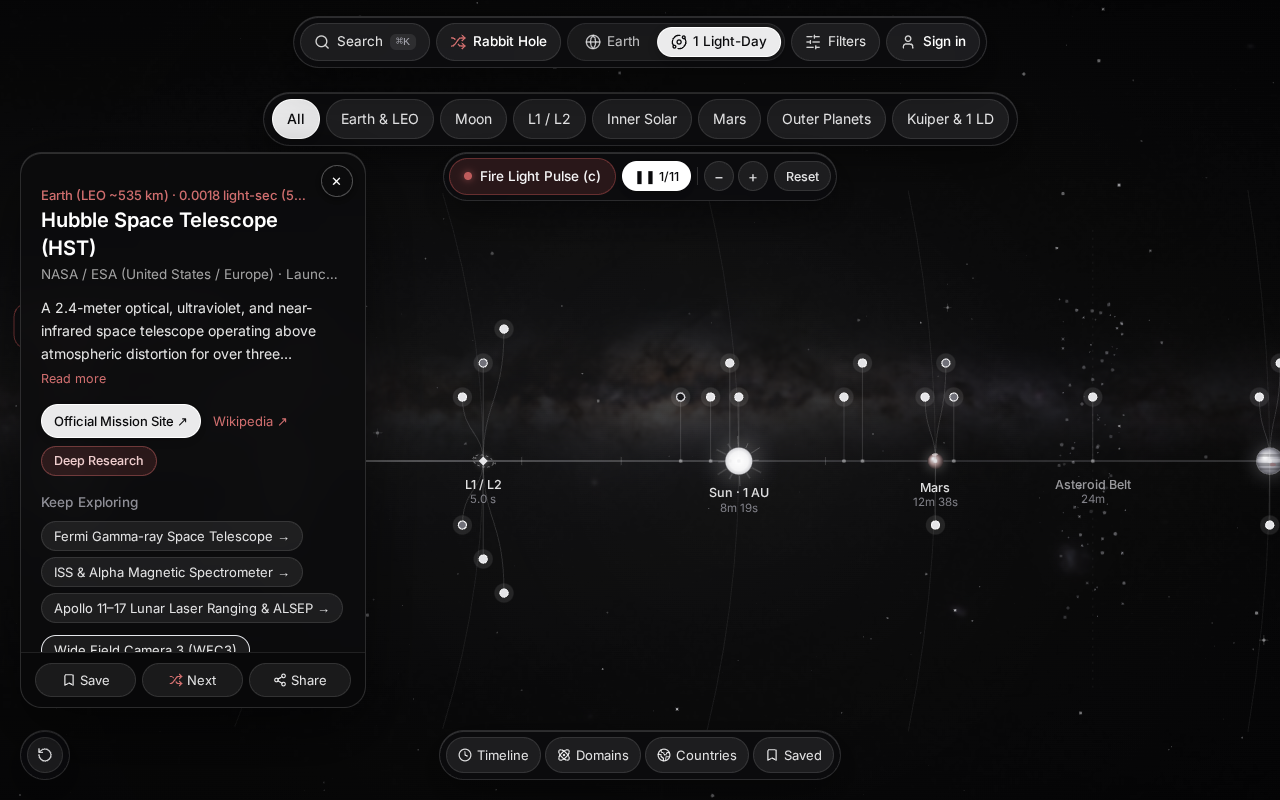
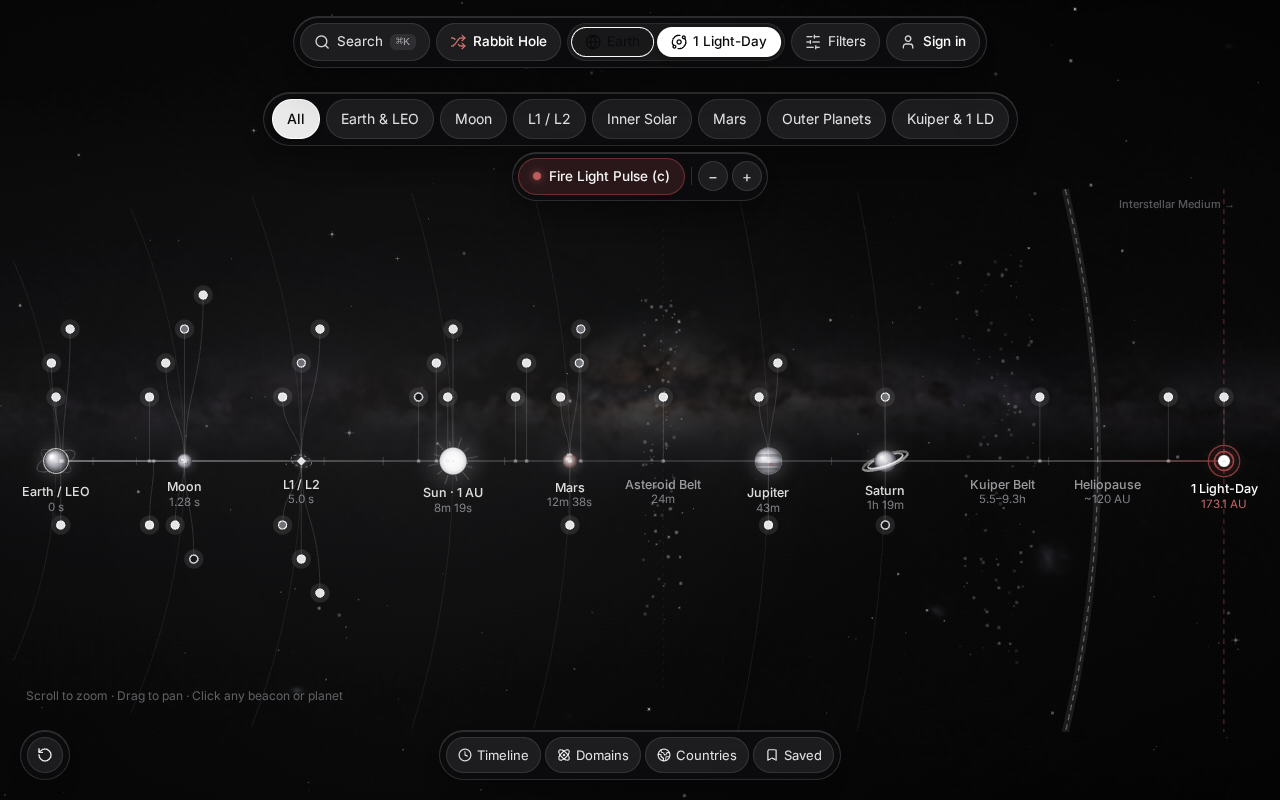
Remove UTC sun mode, polish Compare MIT preset & final v2.2.0 sweep (sw v36)

diff --git a/public/js/globe_engine.js b/public/js/globe_engine.js
@@ -789,67 +789,25 @@ function initGlobeHudOverlay() {
 
     const center = map.getCenter();
     const rad = Math.PI / 180;
-    const bearingDeg = typeof map.getBearing === "function" ? map.getBearing() : 0;
 
-    // True 3D spherical solar day/night terminator (3-state: Orbital 45° · Live UTC Astronomical · Off)
+    // True 3D spherical orbital solar day/night terminator (toggleable via Sun button)
     // Strictly alpha = 0 across the entire sunlit hemisphere so Earth stays 100% vivid & crisp (zero grey wash!)
-    const sunMode = store.state.sunMode || (store.state.sunLighting ? "orbital" : "off");
-    if (sunMode !== "off" && zoom < 4.7 && pitch < 32 && hasSurfaceRay) {
+    if (store.state.sunLighting && zoom < 4.7 && pitch < 32 && hasSurfaceRay) {
       const sunFade = Math.max(0, Math.min(1, 1 - (zoom - 3.15) / 1.55));
       if (sunFade > 0.01) {
-        let sx, sy, sz;
-        if (sunMode === "utc") {
-          const now = new Date();
-          const startOfYear = Date.UTC(now.getUTCFullYear(), 0, 0);
-          const doy = (Date.UTC(now.getUTCFullYear(), now.getUTCMonth(), now.getUTCDate()) - startOfYear) / 86400000;
-          const utcHours = now.getUTCHours() + now.getUTCMinutes() / 60 + now.getUTCSeconds() / 3600;
-          const sunLatRad = (-23.44 * Math.cos(((2 * Math.PI) / 365) * (doy + 10))) * rad;
-          let sunLngDeg = (12 - utcHours) * 15;
-          sunLngDeg = ((sunLngDeg + 540) % 360) - 180;
-          const sunLngRad = sunLngDeg * rad;
+        // Orbital 45° showcase angle: vivid untouched sunlit hemisphere + crisp curved night limb
+        const slx = -0.64, sly = 0.28, slz = 0.71;
+        const slen = Math.hypot(slx, sly, slz);
+        const sx = slx / slen, sy = sly / slen, sz = slz / slen;
 
-          // ECEF sun unit vector (+Z = 0°E,0°N; +X = 90°E,0°N; +Y = North Pole)
-          const vx = Math.cos(sunLatRad) * Math.sin(sunLngRad);
-          const vy = Math.sin(sunLatRad);
-          const vz = Math.cos(sunLatRad) * Math.cos(sunLngRad);
-
-          // Transform into camera frame (center.lng, center.lat, bearing)
-          const cLng = center.lng * rad;
-          const cLat = center.lat * rad;
-          const bRad = bearingDeg * rad;
-          const x1 = vx * Math.cos(cLng) - vz * Math.sin(cLng);
-          const y1 = vy;
-          const z1 = vx * Math.sin(cLng) + vz * Math.cos(cLng);
-          const x2 = x1;
-          const y2 = y1 * Math.cos(cLat) - z1 * Math.sin(cLat);
-          const z2 = y1 * Math.sin(cLat) + z1 * Math.cos(cLat);
-          sx = x2 * Math.cos(bRad) - y2 * Math.sin(bRad);
-          sy = x2 * Math.sin(bRad) + y2 * Math.cos(bRad);
-          sz = z2;
-        } else {
-          // Orbital 45° showcase angle: vivid untouched sunlit hemisphere + crisp curved night limb
-          const slx = -0.64, sly = 0.28, slz = 0.71;
-          const slen = Math.hypot(slx, sly, slz);
-          sx = slx / slen; sy = sly / slen; sz = slz / slen;
-        }
-
-        const prevSun = renderHudNow._lastSunVec;
-        const sunMoved = !prevSun
-          || Math.abs(prevSun.sx - sx) > 0.014
-          || Math.abs(prevSun.sy - sy) > 0.014
-          || Math.abs(prevSun.sz - sz) > 0.014;
-
-        if (!renderHudNow._sunMask || sunMoved) {
-          const S = 160;
-          const sc = renderHudNow._sunMask || document.createElement("canvas");
-          if (sc.width !== S || sc.height !== S) {
-            sc.width = S;
-            sc.height = S;
-          }
+        if (!renderHudNow._sunMask) {
+          const S = 180;
+          const sc = document.createElement("canvas");
+          sc.width = S;
+          sc.height = S;
           const sctx = sc.getContext("2d");
-          const img = renderHudNow._sunImg || sctx.createImageData(S, S);
+          const img = sctx.createImageData(S, S);
           const data = img.data;
-          data.fill(0);
           const half = S * 0.5;
           for (let py = 0; py < S; py++) {
             const v = (py + 0.5 - half) / half; // +down
@@ -877,8 +835,6 @@ function initGlobeHudOverlay() {
           }
           sctx.putImageData(img, 0, 0);
           renderHudNow._sunMask = sc;
-          renderHudNow._sunImg = img;
-          renderHudNow._lastSunVec = { sx, sy, sz };
         }
 
         const cx0 = w * 0.5;

diff --git a/public/js/ui_controller.js b/public/js/ui_controller.js
@@ -3359,16 +3359,11 @@ export function initUI() {
   document.getElementById("btn-mode-space")?.addEventListener("click", () => setViewMode("space"));
 
   const syncGlobeLayerButtons = () => {
-    const sunMode = store.state.sunMode || (store.state.sunLighting ? "orbital" : "off");
-    const sunActive = sunMode !== "off";
-    const sunLabel = sunMode === "utc" ? "UTC" : "Sun";
-    const sunMobLabel = sunMode === "utc" ? "UTC" : "Sun";
-
     const pairs = [
       ["btn-arcs", "btn-layer-arcs", Boolean(store.state.arcs)],
       ["btn-labels", "btn-layer-labels", Boolean(store.state.labels)],
       ["btn-tilt", "btn-layer-tilt", Boolean(store.state.tilted)],
-      ["btn-sun", "btn-layer-sun", sunActive]
+      ["btn-sun", "btn-layer-sun", Boolean(store.state.sunLighting)]
     ];
     for (const [deskId, mobId, isOn] of pairs) {
       for (const id of [deskId, mobId]) {
@@ -3378,10 +3373,6 @@ export function initUI() {
         el.classList.toggle("glass-btn", !isOn);
       }
     }
-    const deskSun = document.getElementById("btn-sun");
-    if (deskSun) deskSun.textContent = sunLabel;
-    const mobSun = document.getElementById("btn-layer-sun");
-    if (mobSun) mobSun.textContent = sunMobLabel;
   };
 
   const toggleArcsLayer = () => {
@@ -3399,23 +3390,10 @@ export function initUI() {
     syncGlobeLayerButtons();
     setGlobeTilt(store.state.tilted);
   };
-  const cycleSunMode = () => {
-    const cur = store.state.sunMode || (store.state.sunLighting ? "orbital" : "off");
-    const next = cur === "orbital" ? "utc" : cur === "utc" ? "off" : "orbital";
-    store.state.sunMode = next;
-    store.state.sunLighting = next !== "off";
+  const toggleSunLayer = () => {
+    store.state.sunLighting = !store.state.sunLighting;
     syncGlobeLayerButtons();
     syncGlobeMarkers();
-    if (next === "utc") {
-      const now = new Date();
-      const hh = String(now.getUTCHours()).padStart(2, "0");
-      const mm = String(now.getUTCMinutes()).padStart(2, "0");
-      showToast(`Live UTC Sunlight · ${hh}:${mm} UTC`);
-    } else if (next === "orbital") {
-      showToast("Orbital Sun (45° showcase)");
-    } else {
-      showToast("Solar lighting off");
-    }
   };
 
   document.getElementById("btn-arcs")?.addEventListener("click", toggleArcsLayer);
@@ -3424,8 +3402,8 @@ export function initUI() {
   document.getElementById("btn-layer-labels")?.addEventListener("click", toggleLabelsLayer);
   document.getElementById("btn-tilt")?.addEventListener("click", toggleTiltLayer);
   document.getElementById("btn-layer-tilt")?.addEventListener("click", toggleTiltLayer);
-  document.getElementById("btn-sun")?.addEventListener("click", cycleSunMode);
-  document.getElementById("btn-layer-sun")?.addEventListener("click", cycleSunMode);
+  document.getElementById("btn-sun")?.addEventListener("click", toggleSunLayer);
+  document.getElementById("btn-layer-sun")?.addEventListener("click", toggleSunLayer);
   syncGlobeLayerButtons();
 
   // Smooth native touch swipe-down-to-dismiss on mobile bottom sheets (#place-card & #cluster-sheet)

diff --git a/public/index.html b/public/index.html
@@ -197,7 +197,7 @@
         <button id="btn-layer-arcs" type="button" class="glass-btn-active rounded-full py-1.5 text-[12.5px] text-center">Arcs</button>
         <button id="btn-layer-labels" type="button" class="glass-btn rounded-full py-1.5 text-[12.5px] text-center">Labels</button>
         <button id="btn-layer-tilt" type="button" class="glass-btn rounded-full py-1.5 text-[12.5px] text-center">3D</button>
-        <button id="btn-layer-sun" type="button" class="glass-btn-active rounded-full py-1.5 text-[12.5px] text-center" title="Cycle Sunlight: Orbital · Live UTC · Off">Sun</button>
+        <button id="btn-layer-sun" type="button" class="glass-btn-active rounded-full py-1.5 text-[12.5px] text-center" title="Toggle orbital solar day/night lighting">Sun</button>
       </div>
     </div>
   </section>
@@ -429,7 +429,7 @@
     <button id="btn-arcs" type="button" class="glass-btn-active rounded-full px-3 py-1.5 text-[14px]">Arcs</button>
     <button id="btn-labels" type="button" class="glass-btn rounded-full px-3 py-1.5 text-[14px]">Labels</button>
     <button id="btn-tilt" type="button" class="glass-btn rounded-full px-3 py-1.5 text-[14px]">3D</button>
-    <button id="btn-sun" type="button" class="glass-btn-active rounded-full px-3 py-1.5 text-[14px]" title="Cycle Sunlight: Orbital 45° · Live UTC · Off">Sun</button>
+    <button id="btn-sun" type="button" class="glass-btn-active rounded-full px-3 py-1.5 text-[14px]" title="Toggle orbital solar day/night lighting">Sun</button>
   </div>
 
   <!-- Symmetrical Bottom Floating Dock (Desktop Two-Half Capsule / Mobile Sculpted Capsule Tab Bar) -->

diff --git a/public/js/account_ui.js b/public/js/account_ui.js
@@ -347,7 +347,7 @@ export function renderAccountWorkspaceModal(bodyEl, {
   let editingNoteId = null;
 
   const COMPARE_PRESETS = [
-    { label: "MIT · Stanford · ETH Zurich", names: ["Massachusetts Institute of Technology", "Stanford University", "ETH Zurich"] },
+    { label: "MIT · Stanford · ETH Zurich", names: ["MIT Physics", "Stanford University", "ETH Zurich"] },
     { label: "CERN · Fermilab · KEK", names: ["CERN", "Fermilab", "KEK"] },
     { label: "DeepMind · OpenAI · Mila", names: ["Google DeepMind", "OpenAI", "Mila"] }
   ];

diff --git a/public/sw.js b/public/sw.js
@@ -5,7 +5,7 @@
  * - Always bypasses /api/* auth/account endpoints and /_diag
  */
 
-const APP_CACHE = "world-physics-app-v35";
+const APP_CACHE = "world-physics-app-v36";
 const TILE_CACHE = "world-physics-tiles-v1";
 
 const PRECACHE_TILES = (() => {

diff --git a/public/js/data_store.js b/public/js/data_store.js
@@ -61,7 +61,6 @@ export const store = {
     labels: false,
     tilted: false,
     sunLighting: true,
-    sunMode: "orbital",      // "orbital" | "utc" | "off"
     compareIds: [],
     shortlist: new Set(),
     bookmarks: [],

diff --git a/README.md b/README.md
@@ -10,7 +10,7 @@ Built as a **static-first PWA + Capacitor 6 native app (iOS & Android, v2.2.0 / 
 
 | Capability | Description |
 |---|---|
-| **3D Satellite Globe & Hybrid Milky Way Sky** | MapLibre GL CSP WebGL globe with Esri World Imagery + NASA Blue Marble, true 3D camera horizon occlusion, **2-pass hybrid WebGL skybox** (faded star-free ESO Milky Way dust + 3,200 crisp native-Retina stars locked 1:1 to live globe rotation), and **3-state 3D Sunlight (`Orbital 45°` · `Live UTC` · `Off`)** with subtle golden night-side city lights. |
+| **3D Satellite Globe & Hybrid Milky Way Sky** | MapLibre GL CSP WebGL globe with Esri World Imagery + NASA Blue Marble, true 3D camera horizon occlusion, **2-pass hybrid WebGL skybox** (faded star-free ESO Milky Way dust + 3,200 crisp native-Retina stars locked 1:1 to live globe rotation), and toggleable **3D Orbital Sunlight (`Sun`)** with subtle golden night-side city lights. |
 | **Global & Polar Open-Science Index** | **6,926 unique verified STEM hubs across 166 countries** — including **75 Polar Frontier off-grid Arctic, Svalbard, Greenland, Siberia & Antarctic stations** — with two-stage deferred boot for fast mobile startup. |
 | **Deep Research Studio & Side-by-Side Compare** | Free zero-key agentic discovery across **arXiv & alphaXiv**, **INSPIRE-HEP**, **ROR v2**, **OpenAlex**, and **Wikipedia**, optional **BYOK Gemini 2.5 Flash & Deep Research**, plus **Side-by-Side Institution Compare** (up to 3 hubs across ARWU/GRAS, Impact, Citations, Collaborators & arXiv). |
 | **ShanghaiRanking 2026 Integration** | Full ARWU & 57 GRAS subject tables, contextual institution badges, and 5-pillar impact breakdowns. |

diff --git a/store_submission/STORE_LISTING.md b/store_submission/STORE_LISTING.md
@@ -17,7 +17,7 @@
 
 ## 2. Full Store Description (Play Store & App Store)
 
-Discover the entire world of science on one photoreal 3D globe — from ancient Miletus (580 BCE) to Voyager 1 at 1 Light-Day (173.1 AU) — set against a crisp native-Retina starfield & faded ESO Milky Way backdrop with live UTC astronomical sunlight and subtle golden night-side city lights.
+Discover the entire world of science on one photoreal 3D globe — from ancient Miletus (580 BCE) to Voyager 1 at 1 Light-Day (173.1 AU) — set against a crisp native-Retina starfield & faded ESO Milky Way backdrop with toggleable 3D orbital sunlight and subtle golden night-side city lights.
 
 **PhysALT** is an interactive, zero-clutter 3D satellite atlas built for curious minds, students, researchers, and engineers across **all of STEM & AI**:
 
